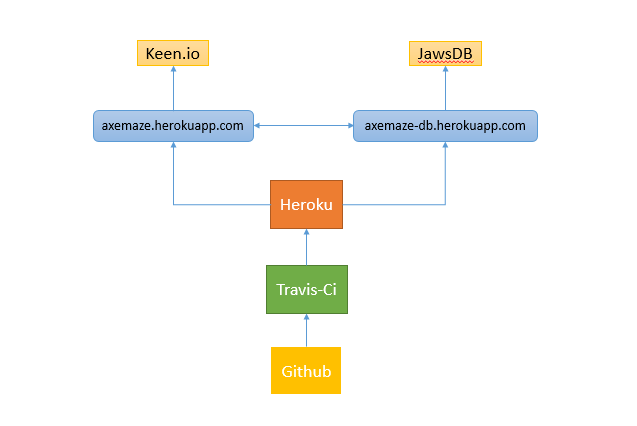
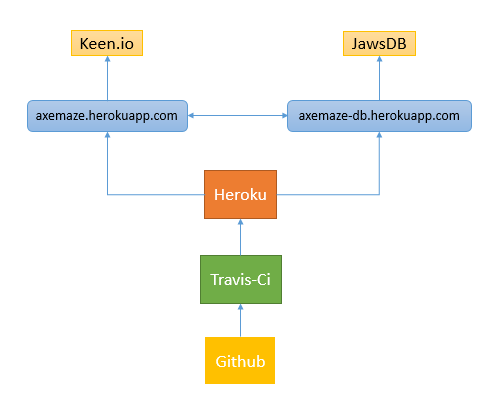
Added my piece of the paper in

diff --git a/README.md b/README.md
@@ -13,6 +13,89 @@ Secondly, to make it easily possible to give both sets of content to users and d
 In order to accomplish these goals, we decided to use a simple maze game. We decided on this format because making a game engine to play mazes would be easier than a more complicated game. Not to mention, there is already a [mountain of work][mazealgs] on generating and solving mazes out there, which would make the procedural portion of the development process much quicker.
 We can easily quantify how many man hours we spent on producing the tools and content for hand written content, as well as the time spent on creating procedural generation algorithms, since we have GitHub's issues and commit tracking systems. Quantifying how much users enjoy handwritten or procedural content is much more difficult to do, and so instead of attempt to do it ourselves, we've left it for another group of people to attempt using our game. A proof-of-concept system is enough, the later group can go in and expand upon our work if it is necessary to do so.
 
+
+###Infrastructure
+
+####Continuous Integration
+
+When defining Continuous Integration it is unnecessary to look further than Martin Fowler's article [here](http://www.martinfowler.com/articles/continuousIntegration.html).  Fowler defines it as: "a software development practice where members of a team integrate their work frequently, usually each person integrates at least daily - leading to multiple integrations per day. Each integration is verified by an automated build (including test) to detect integration errors as quickly as possible. Many teams find that this approach leads to significantly reduced integration problems and allows a team to develop cohesive software more rapidly."  Our team chose to use continuous integration as a means of running static analysis and unit testing.  The structure of our process is as shown in the following image:
+
+![infrastructure](https://github.com/CSC510-2015-Axitron/projectpaper/blob/master/img/infrastructure.png)
+
+The first stop for most of our code is, as with many projects, [github](http://wwww.github.com).  This paper's home is planned to be on github, so whoever is reading it should be likely to know about git and github, but for the truly uninitiated git is a system for version control, and github is used for hosting git projects.  
+
+####Travis-CI
+
+Our continuous integration process is orchestrated using a tool called [travis-ci](travis-ci.com).  Travis-ci is actually a company that offers cloud based build server functionality for free.  The build server what takes care of the automated build part of Fowler's definition of continuous integration.  There are a number of advantages in going with a hosted build server:
+
+- It's free: This is obviously one of the biggest advantages, but may not be the case in the future.
+- Setting up a build server yourself can be time consuming.
+- Running a build server for a team can require either using IAAS (infrastructure as a service) based servers from a provider such as [Amazon Web Services](http://aws.amazon.com/), or having your own hardware infrastructure.  Both of which can be quite costly.
+- Travis-CI is very simple to configure, all configuration takes place in a file called `.travis.yml`.  It uses the [.yml](http://yaml.org/) file format which is very quick to pick up for any seasoned developer.
+
+Our project used travis-ci to conduct a number of different tasks that needed to be completed to determine whether the project was successfully building or failing.  The tasks are as follows:  First and most importantly we used travis-ci to run our unit tests.  Travis-ci's build boxes are in effect normal Linux virtual machines running on cloud infrastructure that have a very particular boot and run proceedure.  Whenever a push is made to our git repository, travis-ci receives a build request.  Their system boots up a virtual machine according to the specifications indicated in the .travis.yml file and actually pulls the contents of the repository into a directory on the build box.  The build box then installs any needed modules per our package.json file and runs our test proceedure.  
+
+The testing and static analysis is as follows: 
+
+- Run unit tests using [Mocha](http://mochajs.org/) as detailed elsewhere in the paper
+- Run unit test coverage analysis using [istanbul](https://github.com/gotwarlost/istanbul)
+- Run static analysis using [jshint](http://jshint.com/)
+- Finally run Heroku deployment, as will be discussed later
+
+####Continuous Delivery/Continuous Deployment
+
+Deployment is an important feature with our particular project.  Initially we received feedback that it would be a major fault in our design if the game itself needed to be installed locally to be played.  Taking that feedback to heart we looked for a good way to deploy our game to the web in a way that it would be easy to visit for any particular user.  Given that prior to this feedback we already were using travis-ci it seemed most logical to look for a deployment option that would sync well with our continuous integration system.  
+
+This is where the idea of Continuous Deployment comes in to play.  Per [Fitzgerald and Stol](http://staff.lero.ie/stol/files/2014/03/rcose2014_fitzgerald.pdf) "Continuous deployment is the practice of continuously deploying good software builds automatically to some environment, but not necessarily to actual users." While continuous delivery is an extension of that process to deployment to actual customers.  Initially our process would have been defined as continuous deployment, but if we ever have "customers" we would be in a position of continuous delivery.
+
+####Heroku
+
+Essentially the last step in our continuous integration process as described above is deployment to [Heroku](http://wwww.heroku.com).  Heroku is a full featured deployment system for web applications.  It functions in somewhat the same fashion as travis-ci in that it runs on cloud infrastructure in a PAAS (Platform as a service) configuration.  The "dyno" is for Heroku what would be a node on many other services.  It is essentially a virtualized server running on some sort of cloud infrastructure.  Again for Heroku it would be possible to use an IAAS cloud service to create the same sort of setup, but Heroku has a large number of features going for it as follows:
+
+- Heroku is free for five "dynos"
+- There's no real setup aside from knowing that Heroku exists and setting up package.json, and .travis.yml to link to your account.
+- Heroku creates fairly short URL's that are publicly accessible and assigned according to your specifications (as long as a particular name is available), additionally Heroku offers the ability to use commercially available domain names should you own a domain name you'd like to use.
+- Heroku has a number of addons that increase the functionality that is available, our project utilized an addon that will be discussed in the database section of this paper.
+- Scalability is another strong factor in favor of Heroku since it is simple to add in more "dynos" if necessary to deal with load issues
+
+Our project is using two dynos currently.  One dyno is being used for actually running the game at this [url](http://axemaze.herokuapp.com/), the other dyno is being used for our database and REST API at this [url](http://axemaze-db.herokuapp.com).  The benefit of using Heroku for both was that we could build our database functionality in another branch of the same github repository and upon pushes to either branch travis-ci runs then Heroku deploys to the correct dyno.
+
+####Database
+
+Discussion of deployment and Heroku leads naturally in to the database setup that we created for this project.  [JawsDB](http://www.jawsdb.com/) is a cloud based MySQL database that is being offered as an addon to Heroku currently.  The beneficial thing with an addon is that it does not count against your 5 dyno limit with Heroku, but it really operates on a cloud instance that is likely the same size as a dyno.  JawsDB is a SAAS (software as a service) cloud service which uses an IAAS provider to create cloud MYySQL databases.
+
+The obvious question at this point is why bother with a database at all of this type of software.  Initially we were using JSON objects for the mazes and storing those in a directory local to the running instance of the game.  For the near term this would be a fine choice, but in thinking to the future of the application and any future use that may contribute to the number of mazes it would quickly be necessary to use a more structured method of data storage that is not tied as closely to the actual repository for the game itself.  JawsDB presented itself as a way to deal with many of those issues in a very streamlined fashion nightly backups and scalability should the database need to grow beyond the free tier that JawsDB offers.
+
+The team initially had very little experience using databases in a web app environment and went through a number of dead ends before coming to JawsDB and quickly realizing that the instance of the database should not be accessible directly by the game.  There are a number of stack overflow posts that deal with this very issue, but the most straightforward is [here](http://stackoverflow.com/questions/659970/why-is-it-not-advisable-to-have-the-database-and-web-server-on-the-same-machine).  As the post makes clear there are a number of reasons to separate these two facets of a system, but security and performance are the strongest reasons to do so.
+
+This separation necessitated the creation of a RESTful API for communication with the database.  [Pautasso](http://www.springer.com/us/book/9781461492986) states that, REST "in case of the HTTP protocol, a set of methods (e.g., GET, PUT, DELETE, POST, HEAD, OPTIONS, etc.) with well defined semantics in terms of the effect on the state of the resource, are defined. HTTP methods can be applied to all Web resource identifiers (e.g., URIs which conform to the HTTP scheme)."  This is the way our team used our RESTful API to communicate between the MySQL database and the application.  The API is hosted on the same dyno as the database and all communication with the outside world is handled through the API.  A diagram is shown below to describe the relationship of the app, server, database, and API.
+
+![apidiagram](https://github.com/CSC510-2015-Axitron/projectpaper/blob/master/img/apicommunication.png)
+
+####Analytics
+
+This brings us around to the final piece of our infrastructure: Analytics.  To prove or disprove the hypotheses set forth in this paper we needed data.  Extracting users likes or dislikes can be challenging, but we chose a very simple mechanism to get, store, and analyze this data.  When users visit the site they are presented with a randomly chosen maze, that can be either procedurally generated or hand-written.  Upon finishing a maze the user is asked for a binary opinion on the maze.  
+
+We have utilized a service called [keen.io](https://keen.io/) to capture this information.  It stores a large amount of information on clicks for either like or dislike including the time of the click, IP information, and simple geolocation data.  We store also whether the maze was procedural or not and whether they liked the maze.  Then that information is stored on keen.io's servers in a relational database that is easy to query and generate visualizations from.  We have created a simple visualization that uses this click data and that can be seen [here](http://axemaze.herokuapp.com/pie.html).  Obviously the game has not been played by real users out in the wild and the only opinions that are currently represented in the graphs are our own opinions.  Luckily the system allows us to quickly dump all stored data if we should end up having real users and can begin to store their information.
+
+
+####Upsides and Downsides of Infrastructure
+
+This final section on our infrastructure attempts to answer whether all of this is worth it or not and what we are really getting for all of this effort.  It seems clear from the above material that there are many strong benefits to the way our process came together, but the most important benefits are the ways that this infrastructure allowed us to work together efficiently.  Those benefits are as follows:
+
+- Notifications on broken builds
+- Prevention of faulty builds being deployed
+- Quick feedback on work's success or failure
+- Simple automatic deployment
+- It is all free so no one person had to pay for it
+
+The downsides are also easy to spell out:  First and most detrimental is the fact that all of these services represent a risk to whether the application can be deployed or built.  If one service was to go down our work flow and our game may not work at all, or may only work partially.  This risk is present for many companies that run their businesses on the web today.  A large number of massive companies, as seen [here](http://aws.amazon.com/solutions/case-studies/) use AWS(Amazon Webservices) services that are very similar to the services we have leveraged, so it does represent a sort of risk for the industry as a whole.  That said, our project makes use of multiple services that are backed by potentially a higher multiple of services which makes our risk level much higher than it would be using only one provider.  
+
+Another potential downside here is the possibility that all of these services in the future could become pay to play.  Right now all of this is free, but it seems hard to believe that that will be the case in perpetuity.  We have already dealt with this downside in the fact that during the time we worked on this project JawsDB went from a free beta offering to a monthly subscription fee.  Luckily the fee will only begin to be charged at the beginning of May.  This is an area where we could easily create the same service in Heroku or elsewhere, but should a service like travis-ci or Heroku become a paid service it would be difficult to replace.
+
+Finally the amount of time required to research, set up, and put into place all of these services is non-trivial.  One member of the team spent a large portion of his time doing the work required to set all of the services involved up.  That represents a trade-off for the team overall:  Would the project have been better off with the work of this extra team member on the project itself, or do the benefits to productivity for the team as a whole outstrip any additional effort that would have been leveraged on the project?  That call is best left to the reader, rather than be made by an over-presumptuous writer.
+
+
 ###Discussion
 ####Difficult in testing GUI
 A lot of our project's functionality depends on the GUI working properly, which is difficult to test. We ended up making up a series of informal functional tests that one of the development team would have to work through manually if they felt like testing, but more often our testing process was even less formal than that. While working on a feature, each developer tended to only test new features added to the GUI, expecting old features to continue to work. This bit us a few times, with some new feature breaking old functionality. A tool to automate interacting with the GUI would be useful, but we found nothing easy enough to setup to justify the effort of setting it up.
